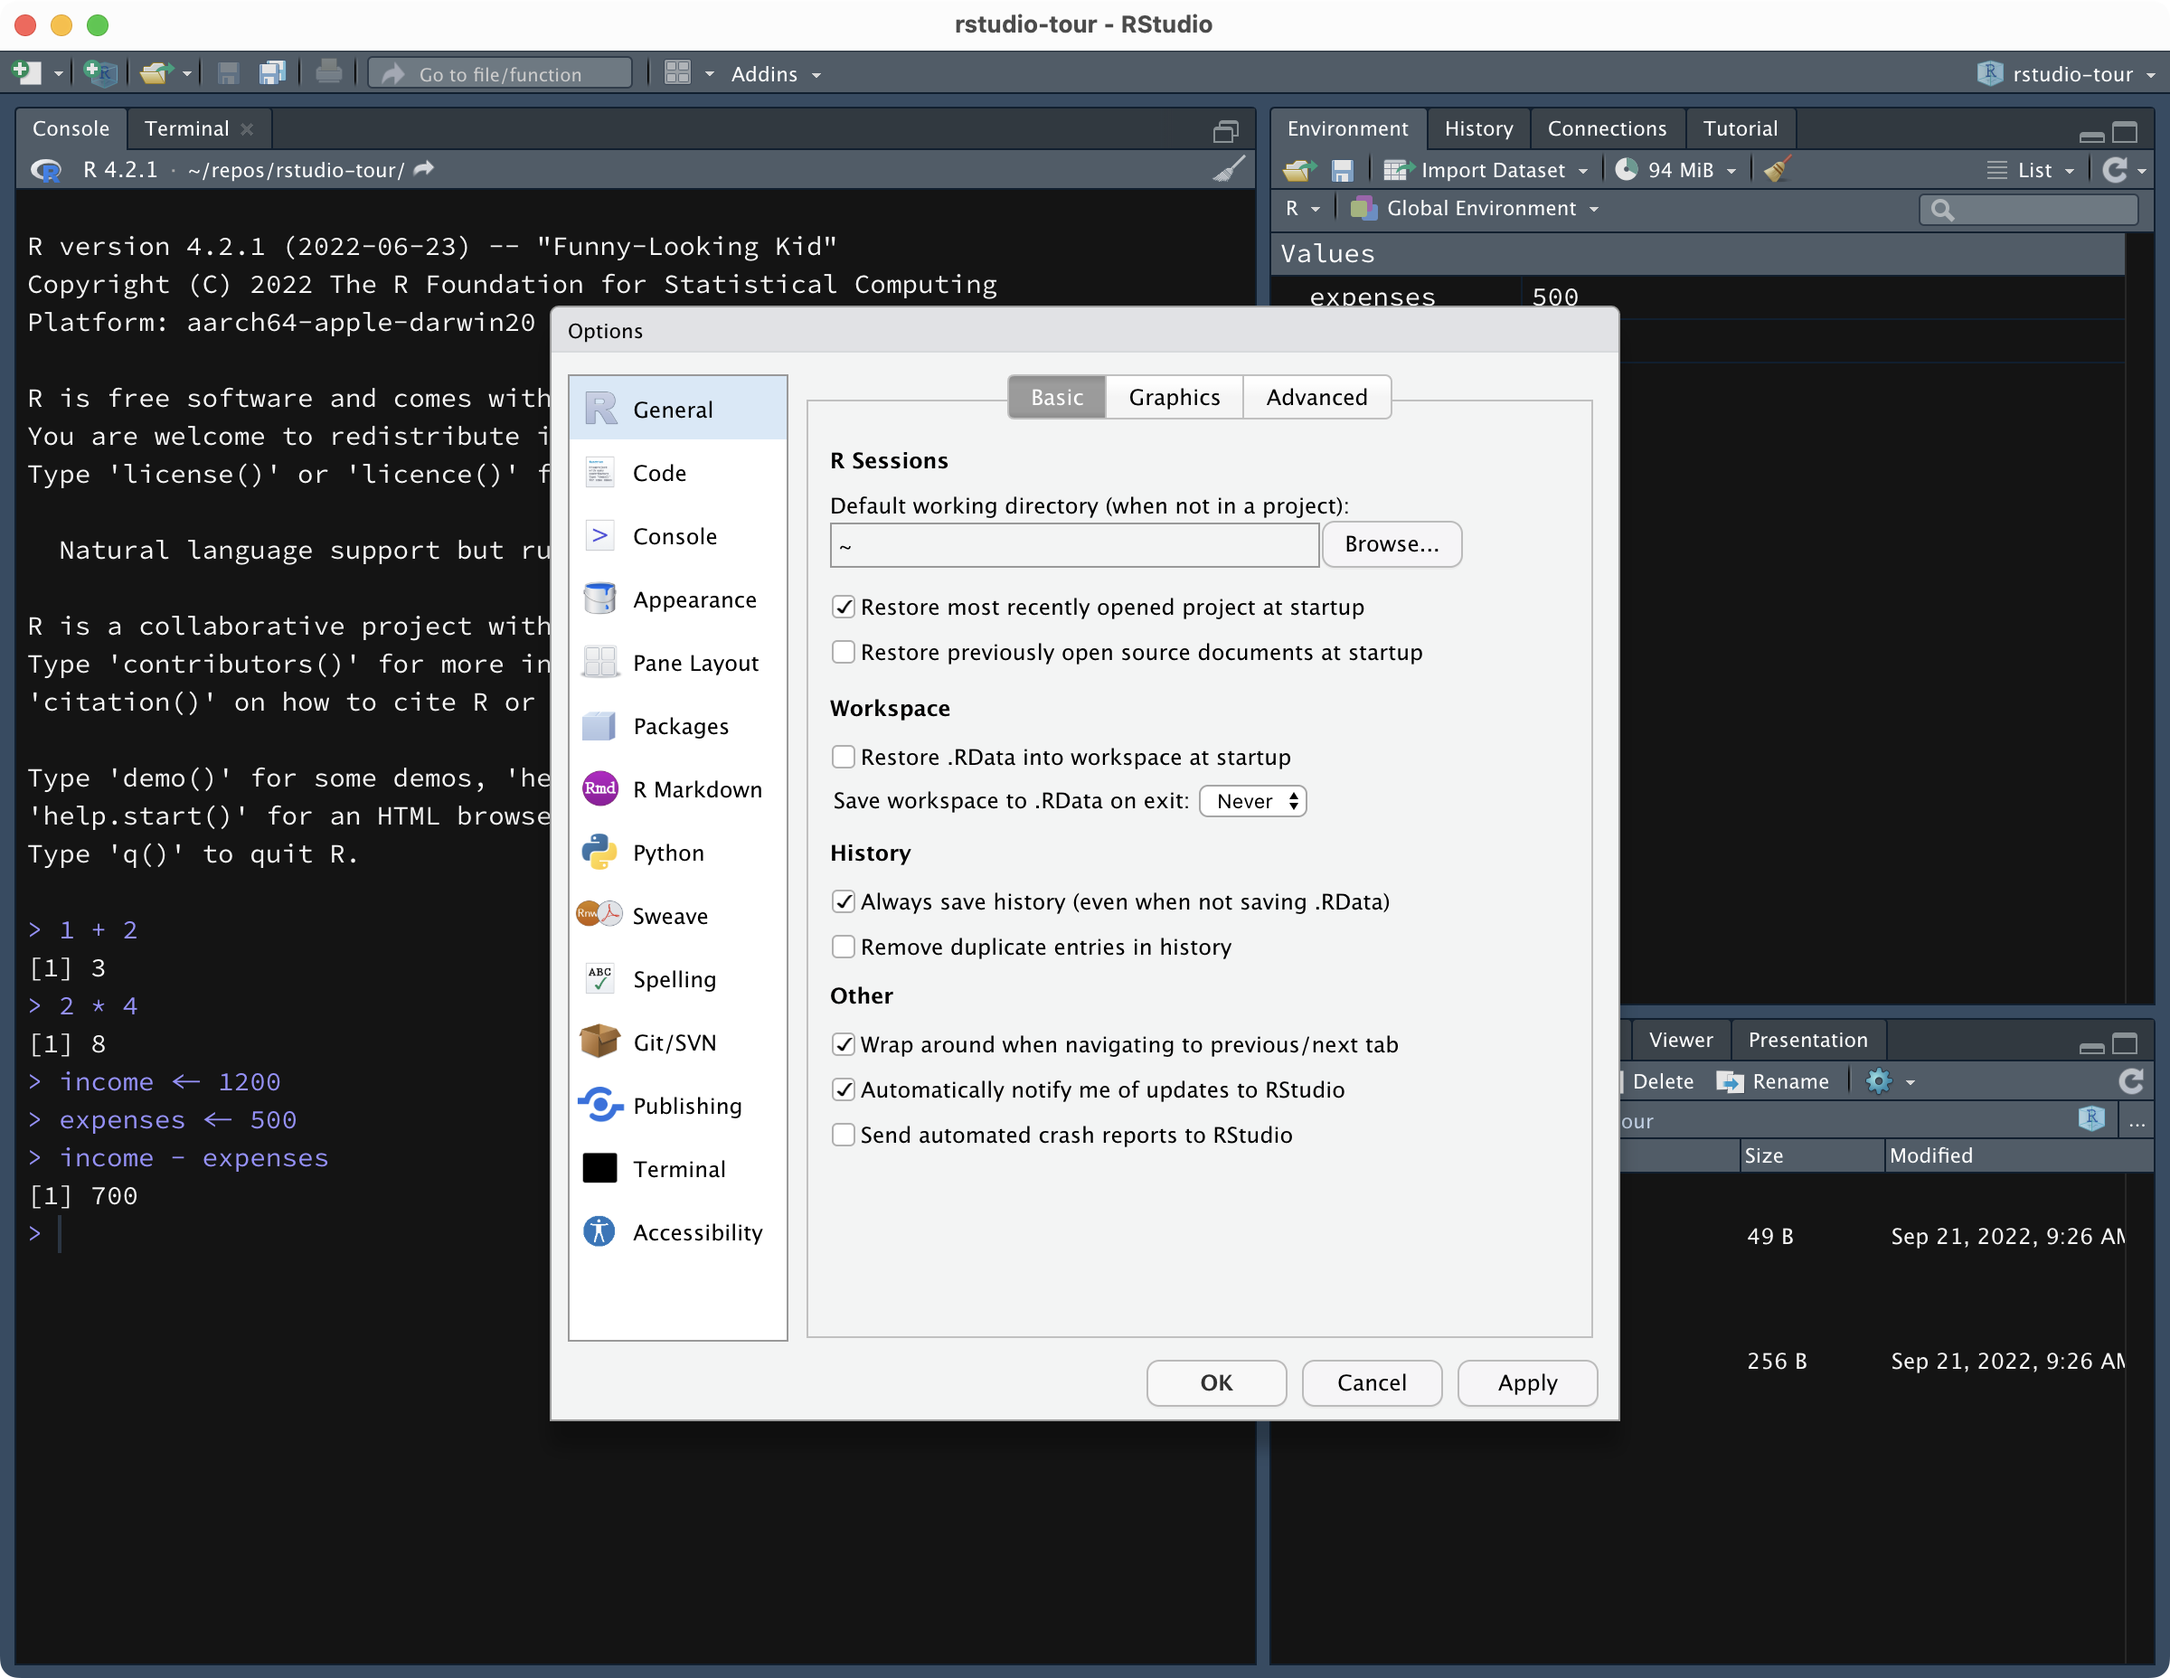
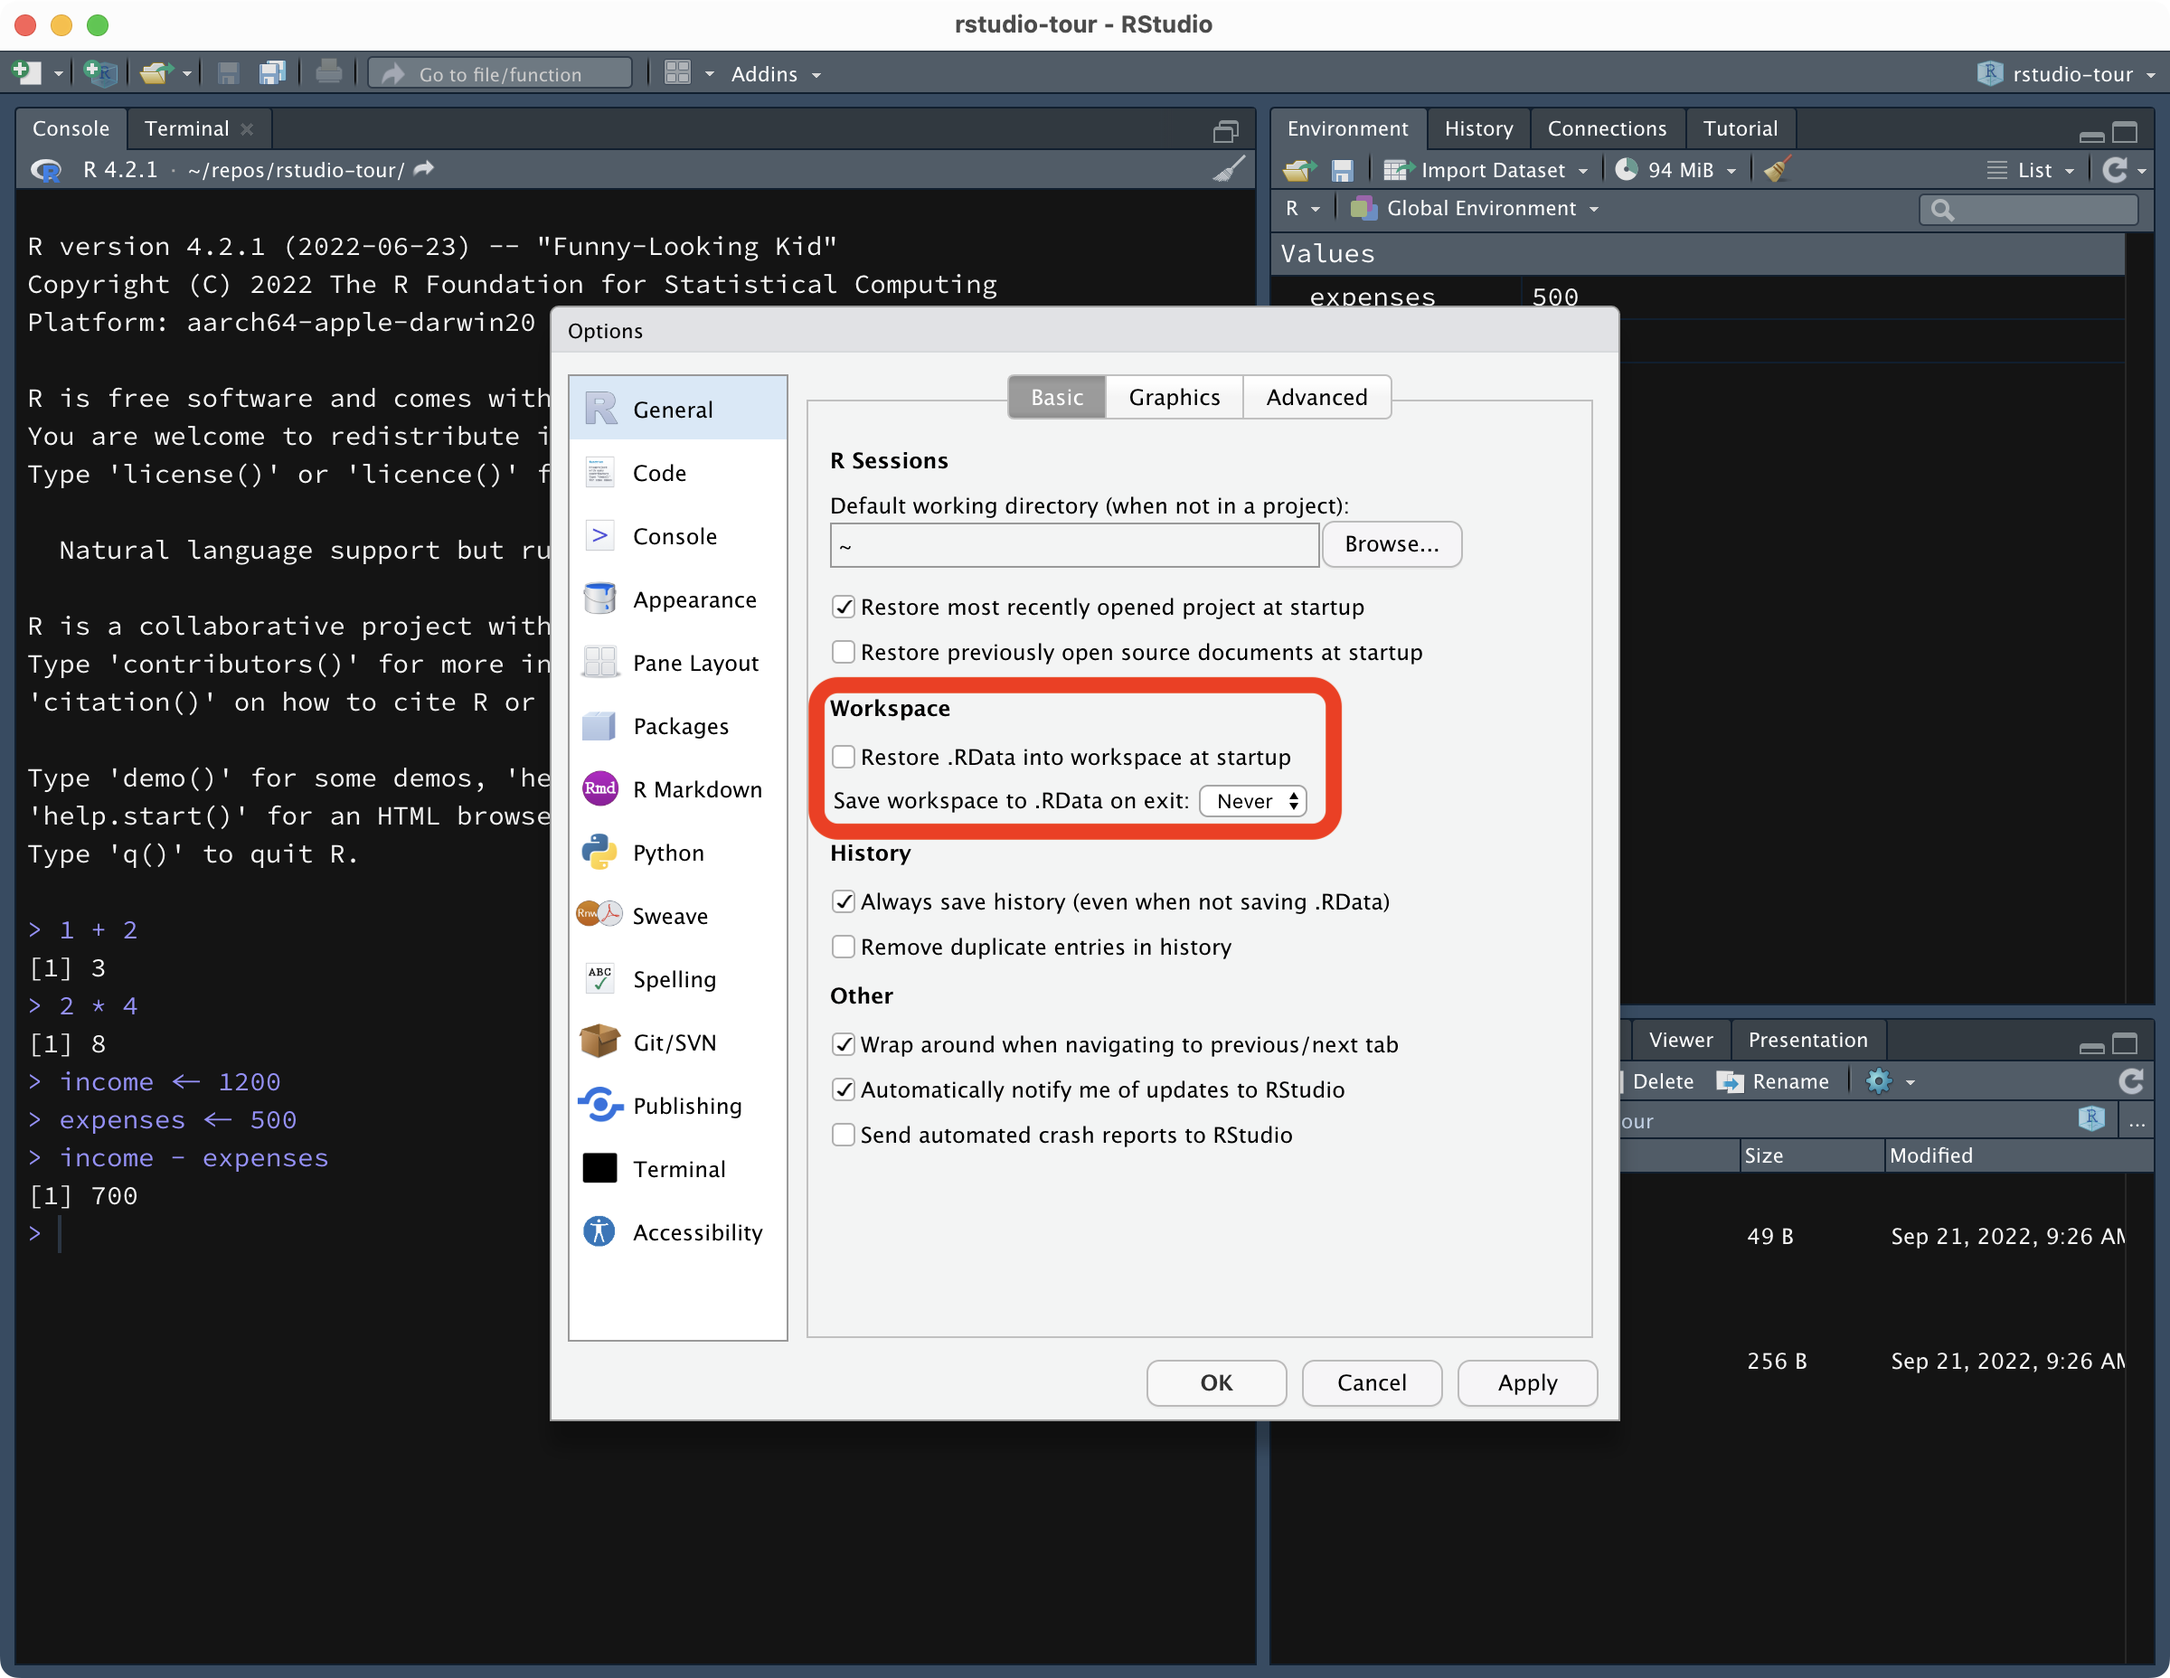
♻ - edit week 1 workshop

Changed region(s): [[0.375, 0.375, 0.625, 0.5]]

diff --git a/week-01/workshop/index.html b/week-01/workshop/index.html
@@ -131,6 +131,14 @@ layout: true
 ![:scale 60%](../../img/rstudio-6.png)
 ]
 
+???
+
+1. Open the RStudio preferences (macOS: `RStudio &gt; Preferences...`, win: `Tools &gt; Global options...`).
+
+2. Un-tick `Restore .RData into workspace at startup`.
+
+3. Select `Never` in `Save workspace to .RData on exit`.
+
 ---
 
 layout: false
@@ -483,11 +491,27 @@ Then run the following in the `Console`.
 remotes::install_github("stefanocoretta/sqmf")
 ```
 
+--
+
+Close RStudio and reopen it (make sure you see in the top-right corner the name of the project you created).
+
+---
+
+# Run the tutorial
+
+Now you can run the first tutorial.
+
+.center[
+![](../../img/tutorials.png)
+]
+
 ---
 
 class: middle center inverse
 
 .f1[TUTORIAL]
+
+
     </textarea>
 <style data-target="print-only">@media screen {.remark-slide-container{display:block;}.remark-slide-scaler{box-shadow:none;}}</style>
 <script src="https://remarkjs.com/downloads/remark-latest.min.js"></script>
